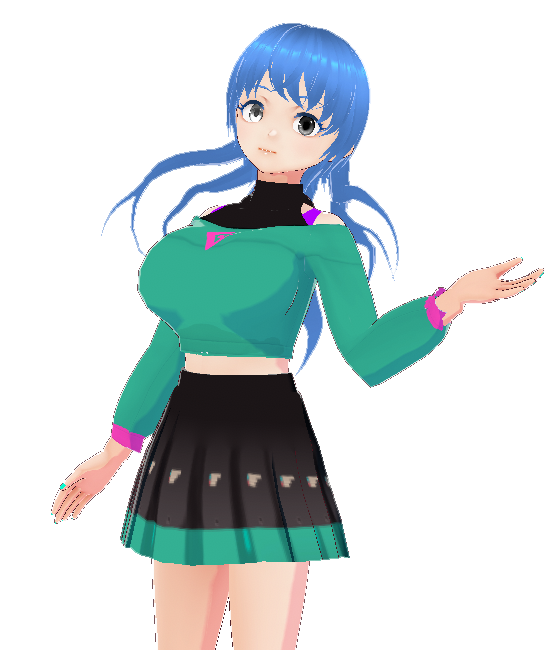
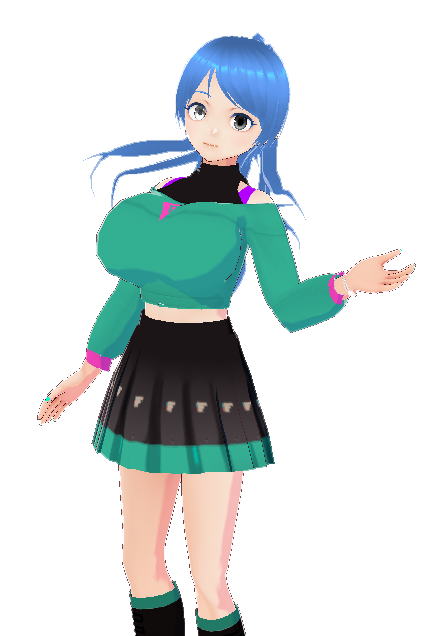
Updated the socials, added schedule section and a new me with updates

Changed region(s): [[0.0911, 0.0299, 0.972, 1.0]]

diff --git a/css/main.css b/css/main.css
@@ -62,6 +62,40 @@ iframe {
     margin-right: 25px;
 }
 
+.sidebar::-webkit-scrollbar {
+    display: none;
+}
+
+.sidebar {
+    border-radius: 25px;
+    height: auto;
+    width: 20%;
+    position: fixed;
+    z-index: 1;
+    top: 0;
+    left: 0;
+    background-color: #FEC5E5;
+    overflow-x: hidden;
+    padding-top: 16px;
+    border: deeppink 2px solid;
+    -ms-overflow-style: none;  /* IE and Edge */
+    scrollbar-width: none;  /* Firefox */
+}
+
+@media screen and (max-height: 450px) {
+    .sidebar {padding-top: 15px;}
+    .svgIcons {width: 50px; padding: 0px 10px;}
+}
+
+.bottom-right ul {
+    text-align: center;
+    font-size: 18px;
+    color: #339582;
+}
+
+li {
+    list-style: none;
+}
 
 /*https://codepen.io/bstonedev/pen/MWWZgKz */
 .tile {
@@ -83,6 +117,8 @@ iframe {
      */
 }
 .bottom-right.inView {
+    margin-left: 20%;
+    padding: 0px 10px;
     opacity: 1;
     -webkit-transform: translateY(0px) rotate(0deg) translateZ(0);
     transform: translateY(0px) rotate(0deg) translateZ(0);
@@ -97,9 +133,9 @@ section {
 }
 
 .svgIcons {
-    width: 125px;
+    width: 100px;
     height: auto;
-    padding: 5px;
+    padding: 0px 20px;
 }
 
 /*

diff --git a/index.php b/index.php
@@ -9,6 +9,32 @@
     <title>Elises her sekai</title>
 </head>
 <body>
+<div class="sidebar">
+    <h1 class="mainH1"> Socials of the girl with the mark</h1>
+        <!-- https://www.svgrepo.com/ -->
+        <a href="https://www.twitch.tv/hatsune_juju">
+            <img class="twitch svgIcons" src="img/SVGIcons/twitch-svgrepo-com.svg">
+        </a>
+        <a href="https://www.instagram.com/twitch_hatsunejuju/">
+            <img class="insta svgIcons" src="img/SVGIcons/instagram-svgrepo-com.svg">
+        </a>
+        <a href="https://twitter.com/TJuju124">
+            <img class="twitter svgIcons" src="img/SVGIcons/twitter-svgrepo-com.svg">
+        </a>
+        <a href="https://www.youtube.com/channel/UCFK1FzoHQ3XlQaqejb3fGMg">
+            <img class="youtubeMain svgIcons" src="img/SVGIcons/youtube-svgrepo-com.svg">
+        </a>
+        <a href="https://www.youtube.com/channel/UCpGrqQTMjFGFecEMd7F3YcQ">
+            <img class="youtubeVods svgIcons" src="img/SVGIcons/youtube-svgrepo-com.svg">
+        </a>
+        <a href="https://steamcommunity.com/id/HatsuneJuju/">
+            <img class="steam svgIcons" src="img/SVGIcons/steam-svgrepo-com.svg">
+        </a>
+        <a href="https://discord.gg/3P9Nwya">
+            <img class="discord svgIcons" src="img/SVGIcons/discord-svgrepo-com.svg">
+        </a>
+</div>
+
 <div class="tile bottom-right">
     <h1 class="centerWelcomeText">Hello There. Welcome to my site!</h1>
     <div class="centerPiece">
@@ -28,13 +54,15 @@
                                   allowfullscreen></iframe> </p>
     <h2 class="introductionH2"> Elise is the name a miku fan of heart</h2>
     <p class="introductionText"> Hi there im Elise. I'm a huge fan of Hatsune Miku and currently studying an IT bachelor. <br>
-        Im 23 years old as of moment of typing and live on my own <br>
+        Im 24 years old as of moment of typing and live on my own <br>
         In my free time I like to be a content creator on the internet. <br>
-        I often make YouTube content and stream on twitch. I also tend to make stuff for myself <br>
-        Like for example I made a discord python bot that run on repel in my own twitch server. <br>
-        This is how I live and code my way around on the internet. It's quite an adventure. <br>
+        I often make YouTube content and stream on twitch. I do all sorts of stuff  <br>
+        But im mostly a Project Diva/Horror youtuber. On twitch i like to switch around<br>
+        With one Project Diva stream in the weekend and something else in the week <br>
+        But i also do plenty of other stuff on my channels make sure to check it out <br>
         Interested in the content I make on Youtube or twitch?. <br>
-        Let me show you my mark powers and watch the video on the page.</p>
+        Let me show you my mark powers and watch the video on the page. I also have a discord <br>
+        So if your interested to stay up to date then make sure to join that in the menu left.</p>
     <p class="introductionText"> I also like to draw and play games. I'm very creative <br>
         Something you think might be obvious with the all the content creation <br>
         I mostly like to play with friends but don't hesitate to play something on my own <br>
@@ -43,37 +71,48 @@
 </div>
 
 <div class="tile bottom-right">
-    <h1 class="mainH1"> Socials of the girl with the mark</h1>
+    <h1 class="mainH1"> Streaming and Upload Schedule </h1>
     <div class="centerPiece">
-    <!-- https://www.svgrepo.com/ -->
-    <a href="https://www.twitch.tv/hatsune_juju">
-        <img class="twitch svgIcons" src="img/SVGIcons/twitch-svgrepo-com.svg">
-    </a>
-    <a href="https://www.instagram.com/twitch_hatsunejuju/">
-        <img class="insta svgIcons" src="img/SVGIcons/instagram-svgrepo-com.svg">
-    </a>
-    <a href="https://twitter.com/TJuju124">
-        <img class="twitter svgIcons" src="img/SVGIcons/twitter-svgrepo-com.svg">
-    </a>
-    <a href="https://www.youtube.com/channel/UCFK1FzoHQ3XlQaqejb3fGMg">
-        <img class="youtubeMain svgIcons" src="img/SVGIcons/youtube-svgrepo-com.svg">
-    </a>
-    <a href="https://www.youtube.com/channel/UCpGrqQTMjFGFecEMd7F3YcQ">
-        <img class="youtubeVods svgIcons" src="img/SVGIcons/youtube-svgrepo-com.svg">
-    </a>
-    <a href="https://steamcommunity.com/id/HatsuneJuju/">
-        <img class="steam svgIcons" src="img/SVGIcons/steam-svgrepo-com.svg">
-    </a>
-    <a href="https://discord.gg/3P9Nwya">
-        <img class="discord svgIcons" src="img/SVGIcons/discord-svgrepo-com.svg">
-    </a>
+        <img alt="picture about me" class="eliseImg" src="img/Elise2.png">
     </div>
+    <h2 class="introductionH2"> Youtube </h2>
+    <p class="introductionText"> Schedule for uploads and stream..... oh that is good a one. <br>
+    Should we start with the YouTube then. As i said earlier i'm an Project Diva/Horror youtuber <br>
+    But i also do lots of other stuff on the channel. But question remains how much do i upload then? <br>
+        I aim for 3x uploads a week with a extra horror vid on friday. But the list is as follows <br> </p>
+    <ul>
+        <li>1x Random game Video</li>
+        <li>1x Project diva Video (Has priority)</li>
+        <li>1x Random game Video and 3 scary games video on friday</li>
+    </ul>
+    <p class="introductionText">
+    I still aiming to keep a Horror friday with 2 uploads each time. <br>
+        Also 3 scary games is my only real consistent thing on the channel. <br>
+        I upload that every friday or try that to around 20:00 CET/CEST <br>
+        Besides that you can expect at least 1 project diva video in the week <br>
+        But as i said i also do plenty of other stuff make sure to check the video out on the page here!
+    </p>
+    <h2 class="introductionH2"> Twitch </h2>
+    <p class="introductionText"> So now comes the question twitch he.... Well let me tell you <br>
+    Back in March 2022 i made the decision to go on a weekly schedule. <br>
+    This primarily with the reason of a upcoming Internship semester and my of course new Transgender life <br>
+    So once a week on sunday i make a schedule for upcoming week and post it. <br>
+    You can find the schedule then on the following places </p>
+    <ul>
+        <li><b>In my Discords Schedule channel</b> Can be found under the Socials category</li>
+        <li><b>My twitter.</b> i also post announcements here if i go live on the day</li>
+        <li><b>My Instagram.</b> i also post announcements here if i go live on the day</li>
+        <li><b>Vods Youtube channel.</b> Good place if you wanna see how stream goes</li>
+    </ul>
+    <p class="introductionText"> All these socials can be found in the menu of the left <br>
+    With the red YouTube icon being my Vods YouTube channel <br>
+    Do i catch you maby live once on twitch in the future <br>
+    I would love to see you there don't be afraid to say hi then. Greeting Elise </p>
 </div>
-</body>
 
 <div class="tile bottom-right">
-    <h1 class="mainH1"> Streaming and Upload Schedule </h1>
-    <p class="centerWelcomeText pEle"> Coming in the next update</p>
+    <h1 class="mainH1"> Covers Artist and Og songs  </h1>
+    <p class="centerWelcomeText pEle"> Coming soon in the next update </p>
 </div>
 </body>
 
